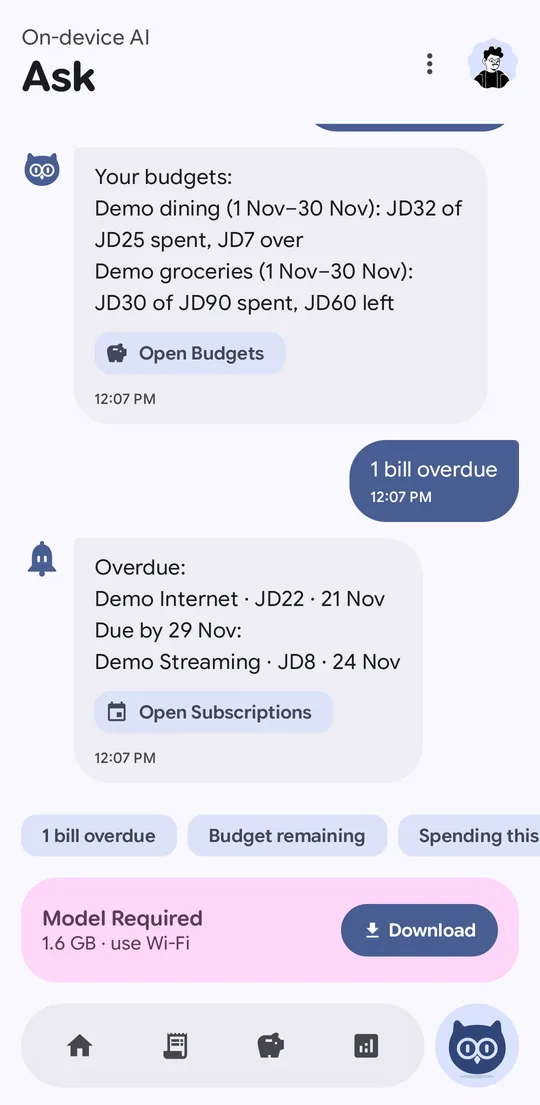
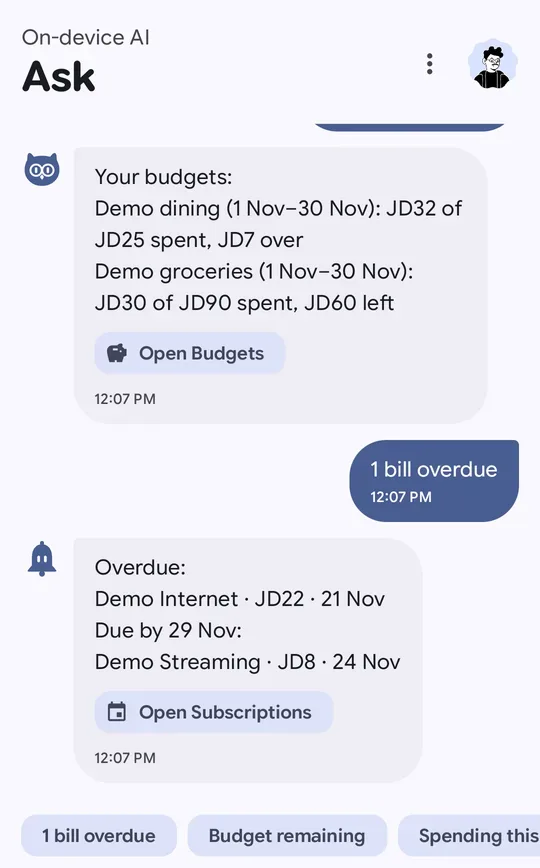
fix(web): landing screenshots tell one consistent story
The hero's floating SMS card showed a rupee amount beside a home screen
in dinars; it now shows the screenshot's newest row. The Ask shot ended
in the "Model Required - Download" card; both variants are cropped above
it, which the tile clipped below anyway.

diff --git a/pennywise-web/server/src/main/kotlin/ui/LandingViews.kt b/pennywise-web/server/src/main/kotlin/ui/LandingViews.kt
@@ -89,7 +89,8 @@ object LandingViews {
                     phone("home", "PennyWise home screen")
                     div(classes = "lp-float lp-float-sms") {
                         span(classes = "lp-float-k") { +"New from SMS" }
-                        span(classes = "lp-float-v") { +"₹1,250 · FreshMart" }
+                        // The newest row in the screenshot, so the hero shows one ledger.
+                        span(classes = "lp-float-v") { +"JD20 · Demo Cafe" }
                     }
                     div(classes = "lp-float lp-float-owl") {
                         owl()
@@ -131,7 +132,8 @@ object LandingViews {
                             h3 { +"Ask about your money" }
                             p { +"“What did I spend on food?” “Bills due next week?” The assistant runs Qwen 2.5 entirely on your phone, and you can dictate with the mic." }
                         }
-                        phone("ask", "", small = true)
+                        // Cropped above the chat's model-download card; the tile clips the bottom anyway.
+                        phone("ask", "", small = true, height = 868)
                     }
                     div(classes = "lp-tile lp-tile-ins") {
                         div(classes = "lp-tile-copy") {
@@ -343,10 +345,10 @@ object LandingViews {
     }
 
     /** A phone frame holding a real screenshot of the app, swapped for the dark one in dark mode. */
-    private fun FlowContent.phone(shot: String, alt: String, small: Boolean = false) {
+    private fun FlowContent.phone(shot: String, alt: String, small: Boolean = false, height: Int = 1105) {
         div(classes = if (small) "lp-phone lp-phone-sm" else "lp-phone") {
             unsafe {
-                +"""<picture><source srcset="/static/app/d-$shot.webp" media="(prefers-color-scheme: dark)"><img src="/static/app/$shot.webp" alt="$alt" width="540" height="1105" loading="${if (small) "lazy" else "eager"}"></picture>"""
+                +"""<picture><source srcset="/static/app/d-$shot.webp" media="(prefers-color-scheme: dark)"><img src="/static/app/$shot.webp" alt="$alt" width="540" height="$height" loading="${if (small) "lazy" else "eager"}"></picture>"""
             }
         }
     }
